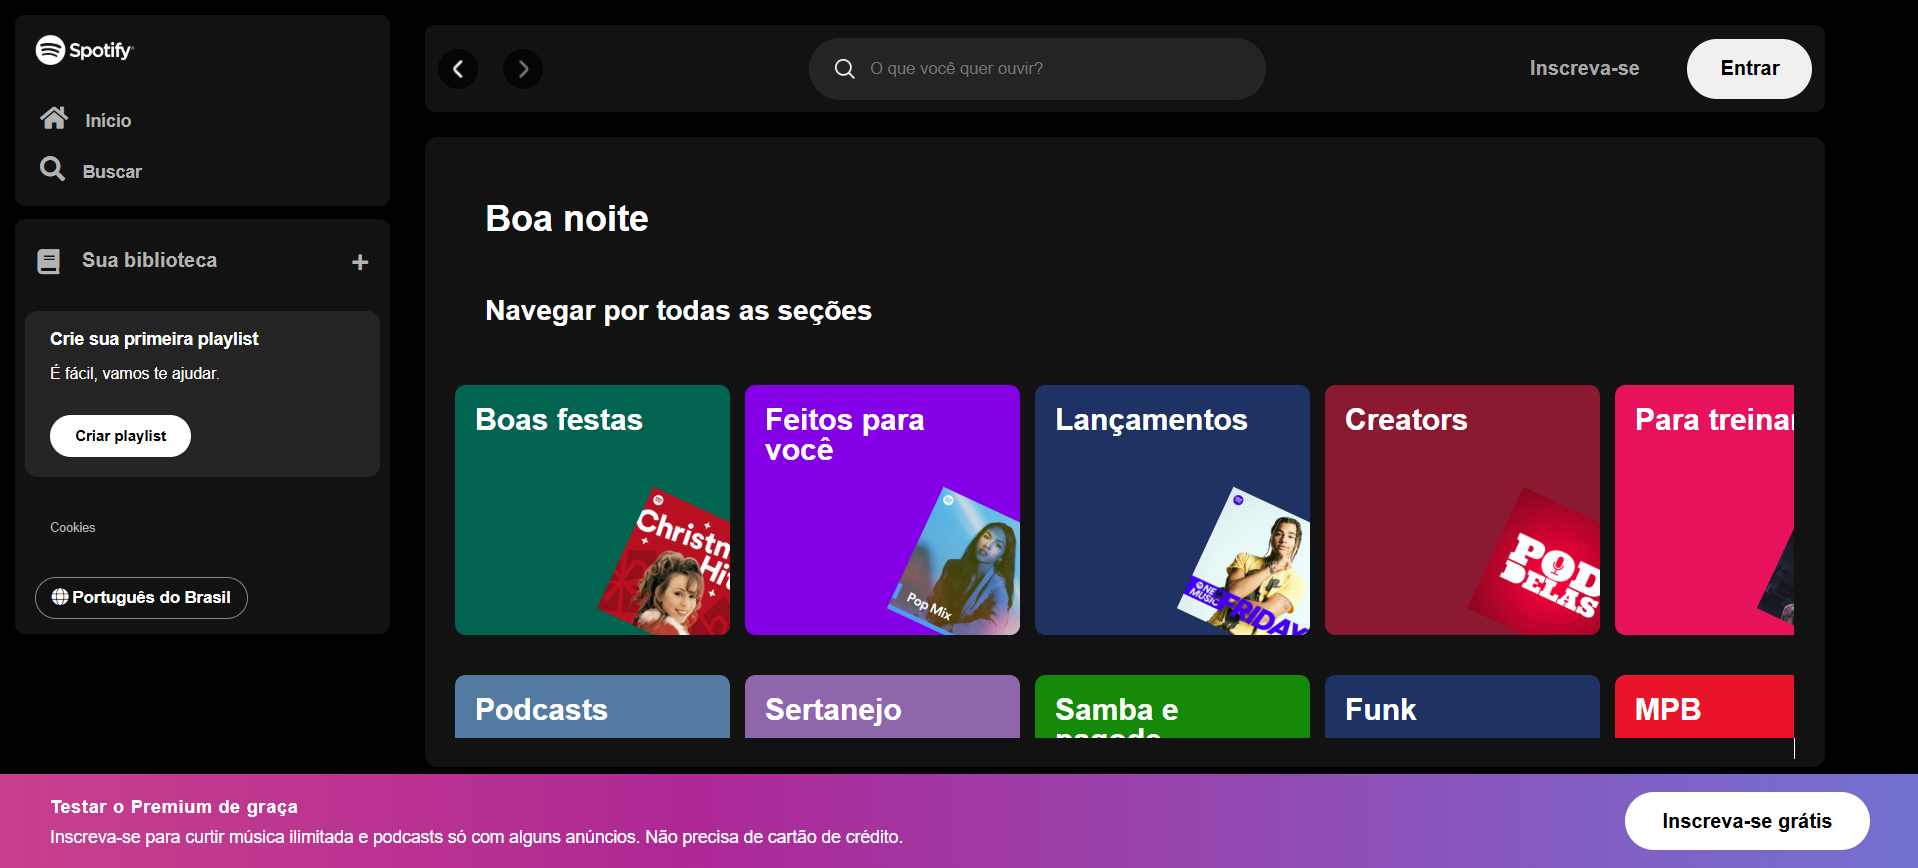
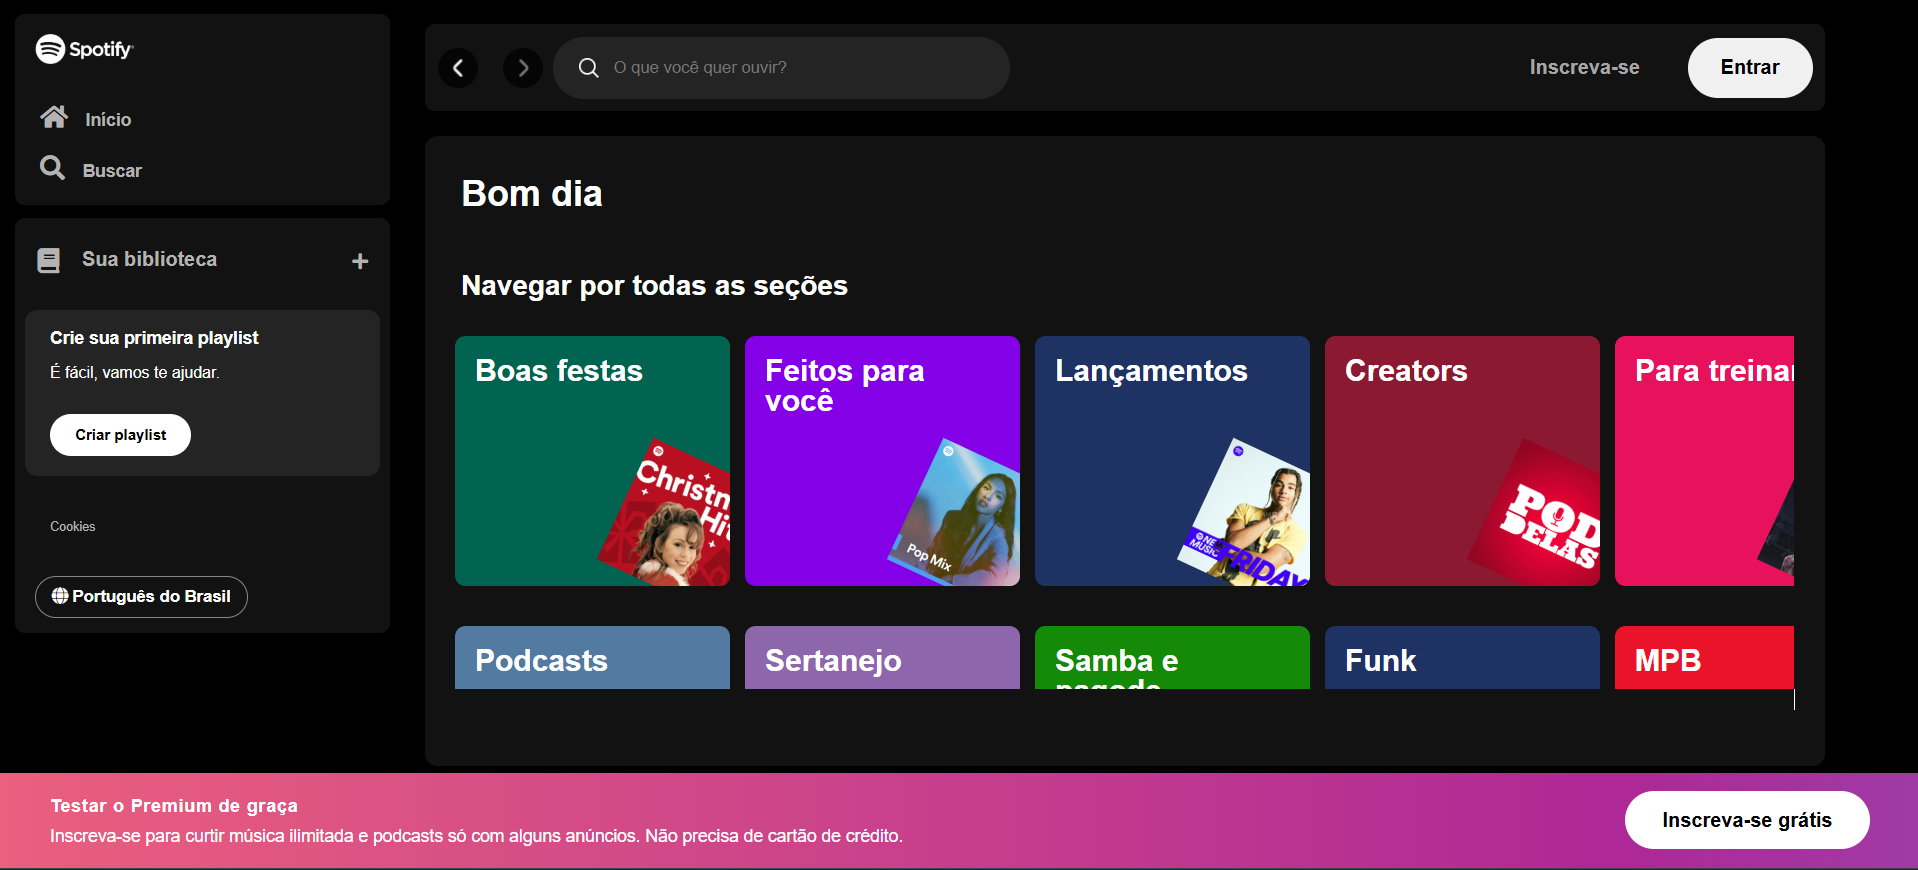
chore header

diff --git a/index.html b/index.html
@@ -75,24 +75,26 @@
 
     <main>
       <div class="main-container">
-          <nav class="header__navigation">
-              <div class="navigation">
-                  <button class="arrow-left">
-                      <img src="./src/assets/icons/small-left.png" alt="" />
-                  </button>
-                  <button class="arrow-right">
-                      <img src="./src/assets/icons/small-right.png" alt="" />
-                  </button>
-              </div>
+        <nav class="header__navigation">
+            <div class="navigation">
+              <button class="arrow-left">
+                <img src="./src/assets/icons/small-left.png" alt="" />
+              </button>
+              <button class="arrow-right">
+                <img src="./src/assets/icons/small-right.png" alt="" />
+              </button>
+    
               <div class="header__search">
-                  <img src="./src/assets/icons/search.png" alt="" />
-                  <input id="search-input" maxlength="800" autocorrect="off" autocapitalize="off" spellcheck="false"
-                      placeholder="O que você quer ouvir?" value="" />
+                <img src="./src/assets/icons/search.png" alt="" />
+                <input id="search-input" maxlength="800" autocorrect="off" autocapitalize="off" spellcheck="false"
+                  placeholder="O que você quer ouvir?" value="" />
               </div>
-              <div class="header__login">
-                  <button class="subscribe">Inscreva-se</button>
-                  <button class="login">Entrar</button>
-              </div>
+            </div>
+    
+            <div class="header__login">
+              <button class="subscribe">Inscreva-se</button>
+              <button class="login">Entrar</button>
+            </div>
           </nav>
 
           <!-- PLAYLIST -->

diff --git a/src/styles/main-content.css b/src/styles/main-content.css
@@ -111,7 +111,7 @@
       }
       
       .playlist {
-        margin: 3rem; /* 24px para rem */
+        margin: 1.8rem; 
       }
       
       .playlist #greeting {
